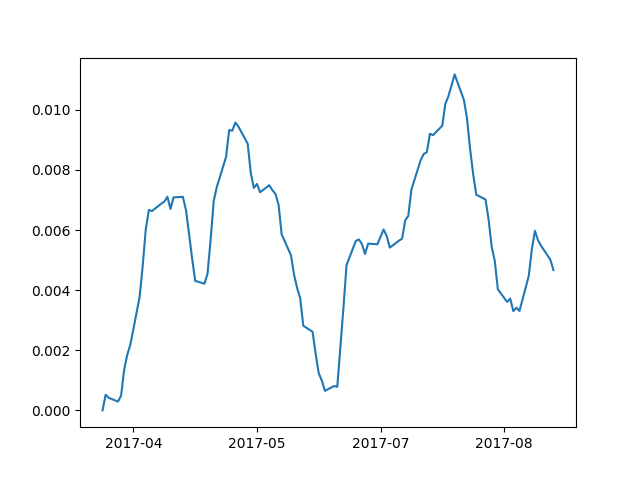
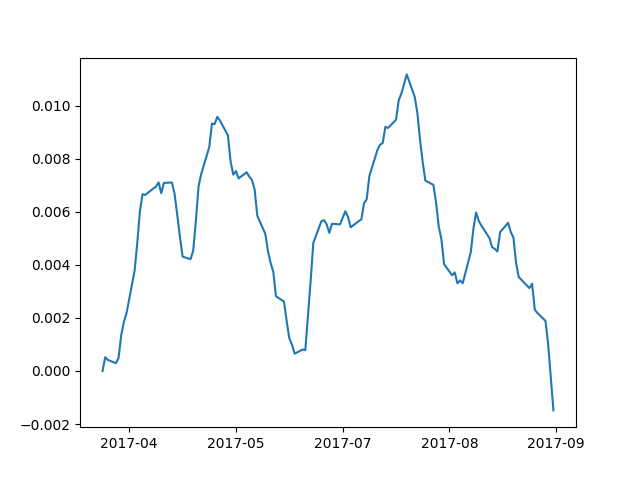
add prediction

diff --git a/frontend/components/analisys/stockChart.jsx b/frontend/components/analisys/stockChart.jsx
@@ -86,6 +86,8 @@ export class CandleStickChartPanToLoadMore extends React.Component {
         const rickerWaveletAccessor = (d) => d.Ricker;
         const paulWaveletAccessor = (d) => d.Paul;
         const dogWaveletAccessor = (d) => d.DOG;
+        const morletWaveletAccessor = (d) => d.Morlet;
+
 
         /* SERVER - START */
         const dataToCalculate = inputData.slice(-LENGTH_TO_SHOW - maxWindowSize);
@@ -116,7 +118,8 @@ export class CandleStickChartPanToLoadMore extends React.Component {
             hurstAccessor,
             rickerWaveletAccessor,
             paulWaveletAccessor,
-            dogWaveletAccessor
+            dogWaveletAccessor,
+            morletWaveletAccessor
         };
         this.handleDownloadMore = this.handleDownloadMore.bind(this);
     }
@@ -232,11 +235,11 @@ export class CandleStickChartPanToLoadMore extends React.Component {
                         />
                     </Chart>
 
-                    <text x="20" y="450" font-family="sans-serif" font-size="20px" fill="black">HURST</text>
+                    <text x="20" y="450" font-family="sans-serif" font-size="20px" fill="black">Fractal dimension</text>
 
                     <Chart id={2} height={150}
                            yExtents={this.state.hurstAccessor}
-                           origin={(w, h) => [0, h - 800]} padding={{top: 10, bottom: 10}}>
+                           origin={(w, h) => [0, h - 775]} padding={{top: 10, bottom: 10}}>
                         <XAxis axisAt="bottom" orient="bottom"/>
                         <YAxis axisAt="right" orient="right" ticks={2}/>
 
@@ -321,7 +324,7 @@ export class CandleStickChartPanToLoadMore extends React.Component {
             );
         else
             return (
-                <ChartCanvas ratio={ratio} width={width} height={500}
+                <ChartCanvas ratio={ratio} width={width} height={700}
                              margin={{left: 70, right: 70, top: 20, bottom: 30}} type={type}
                              seriesName="MSFT"
                              data={data}
@@ -375,6 +378,25 @@ export class CandleStickChartPanToLoadMore extends React.Component {
                                 },
                             ]}
                         />
+                    </Chart>
+                    <text x="20" y="450" font-family="sans-serif" font-size="20px" fill="black">Paul</text>
+
+                    <Chart id={6} height={150}
+                           yExtents={this.state.paulWaveletAccessor}
+                           origin={(w, h) => [0, h - 200]} padding={{top: 10, bottom: 10}}>
+                        <XAxis axisAt="bottom" orient="bottom"/>
+                        <YAxis axisAt="right" orient="right" ticks={2}/>
+
+                        <MouseCoordinateX
+                            at="bottom"
+                            orient="bottom"
+                            displayFormat={timeFormat("%Y-%m-%d")}/>
+                        <MouseCoordinateY
+                            at="right"
+                            orient="right"
+                            displayFormat={format(".2f")}/>
+
+                        <SimpleSeries accessor={this.state.paulWaveletAccessor}/>
                     </Chart>
                     <CrossHairCursor />
                 </ChartCanvas>

diff --git a/frontend/model/filter.js b/frontend/model/filter.js
@@ -4,7 +4,7 @@ export class Filter {
         // this.startDate = new Date("2016-11-11");
         this.startDate = new Date("2017-04-11");
         // this.endDate = new Date("2017-10-01");
-        this.endDate = new Date("2017-11-01");
+        this.endDate = new Date("2017-09-29");
 
         this.currencyPair = 'eurusd=x';
         this.commonCurrencies = ['eurusd=x', 'usdeur=x'];

diff --git a/core/parts/processing/indexes.py b/core/parts/processing/indexes.py
@@ -3,6 +3,7 @@ import copy
 import nolds
 from numpy import log, polyfit, sqrt, std, subtract
 
+from core.parts.processing.prediction import predictNextValue
 from core.tools import *
 
 
@@ -34,11 +35,11 @@ def preparePrediction(data):
     cut_data = data[(-length // 4):]
 
     max_elem = max(cut_data)
-    if max_elem == cut_data[-1]:
+    prediction = predictNextValue(cut_data)
+    if max_elem == prediction:
         proportion = 1
     else:
-        mean_last = np.mean(data[-3:])
-        proportion = mean_last / max_elem
+        proportion = prediction / max_elem
 
     print("Prediction {} ".format(proportion))
 
@@ -47,7 +48,7 @@ def preparePrediction(data):
 
 def prepareHurstIndex(timestamp, value):
     columns = ["date", "value"]
-    return dict(zip(columns, [timestamp, hurst(value)]))
+    return dict(zip(columns, [timestamp, newHurst(value)]))
 
 
 def calculateHurst(date, x, folder_name):

diff --git a/core/parts/processing/prediction.py b/core/parts/processing/prediction.py
@@ -1,0 +1,13 @@
+import numpy as np
+from sklearn.linear_model import LinearRegression
+from sklearn.pipeline import Pipeline
+from sklearn.preprocessing import PolynomialFeatures
+
+
+def predictNextValue(indicator, degree=2):
+    indexes = np.arange(len(indicator))
+    model = Pipeline([('poly', PolynomialFeatures(degree)),
+                      ('linear', LinearRegression(fit_intercept=False))])
+
+    model = model.fit(indexes[:, np.newaxis], indicator)
+    return model.predict(len(indicator))
